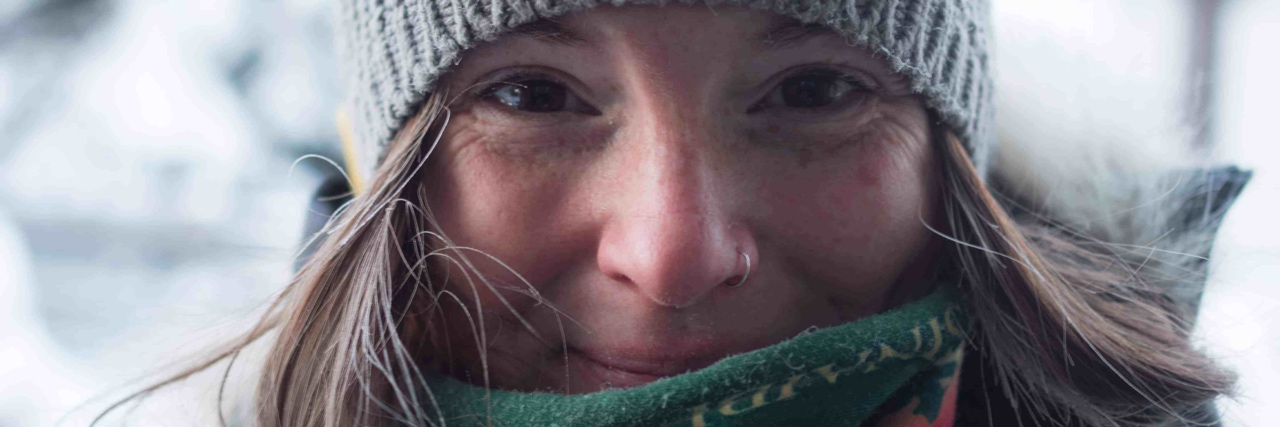
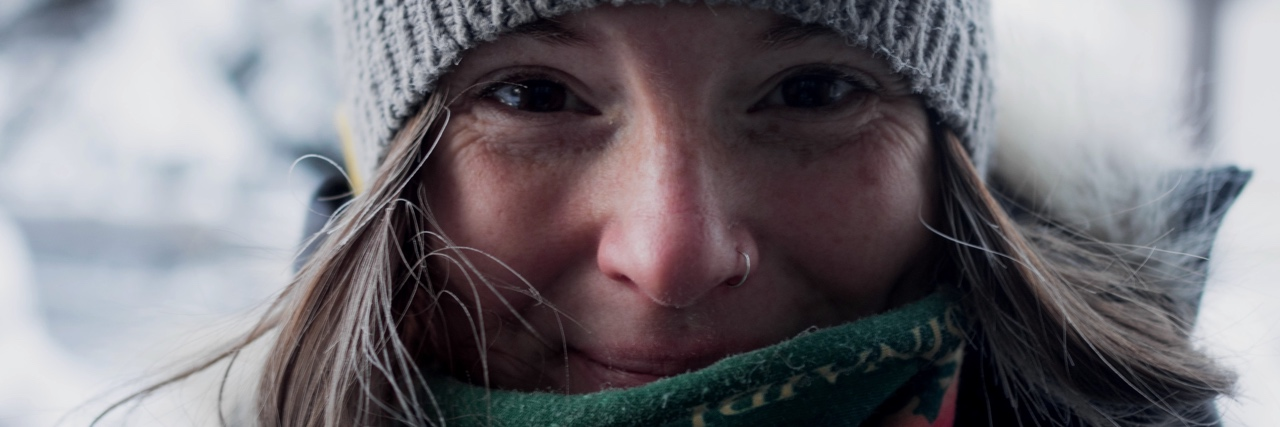
Updated photos, fixed header.

diff --git a/src/gatsby-theme-catalyst-core/components/header/header-hero.js b/src/gatsby-theme-catalyst-core/components/header/header-hero.js
@@ -28,8 +28,10 @@ const SiteWelcome = () => {
       window.matchMedia("(min-width: 768px)").matches
     ) {
       return "60vh"
-    } else {
+    } else if (window.matchMedia("(min-width: 768px)").matches) {
       return "100vh"
+    } else {
+      return "auto"
     }
   }
 
@@ -75,6 +77,7 @@ const SiteWelcome = () => {
           height: welcomeHeight,
           bg: "#eed4cc",
           px: 3,
+          py: [5, null, 0, null, null],
         }}
       >
         <div
